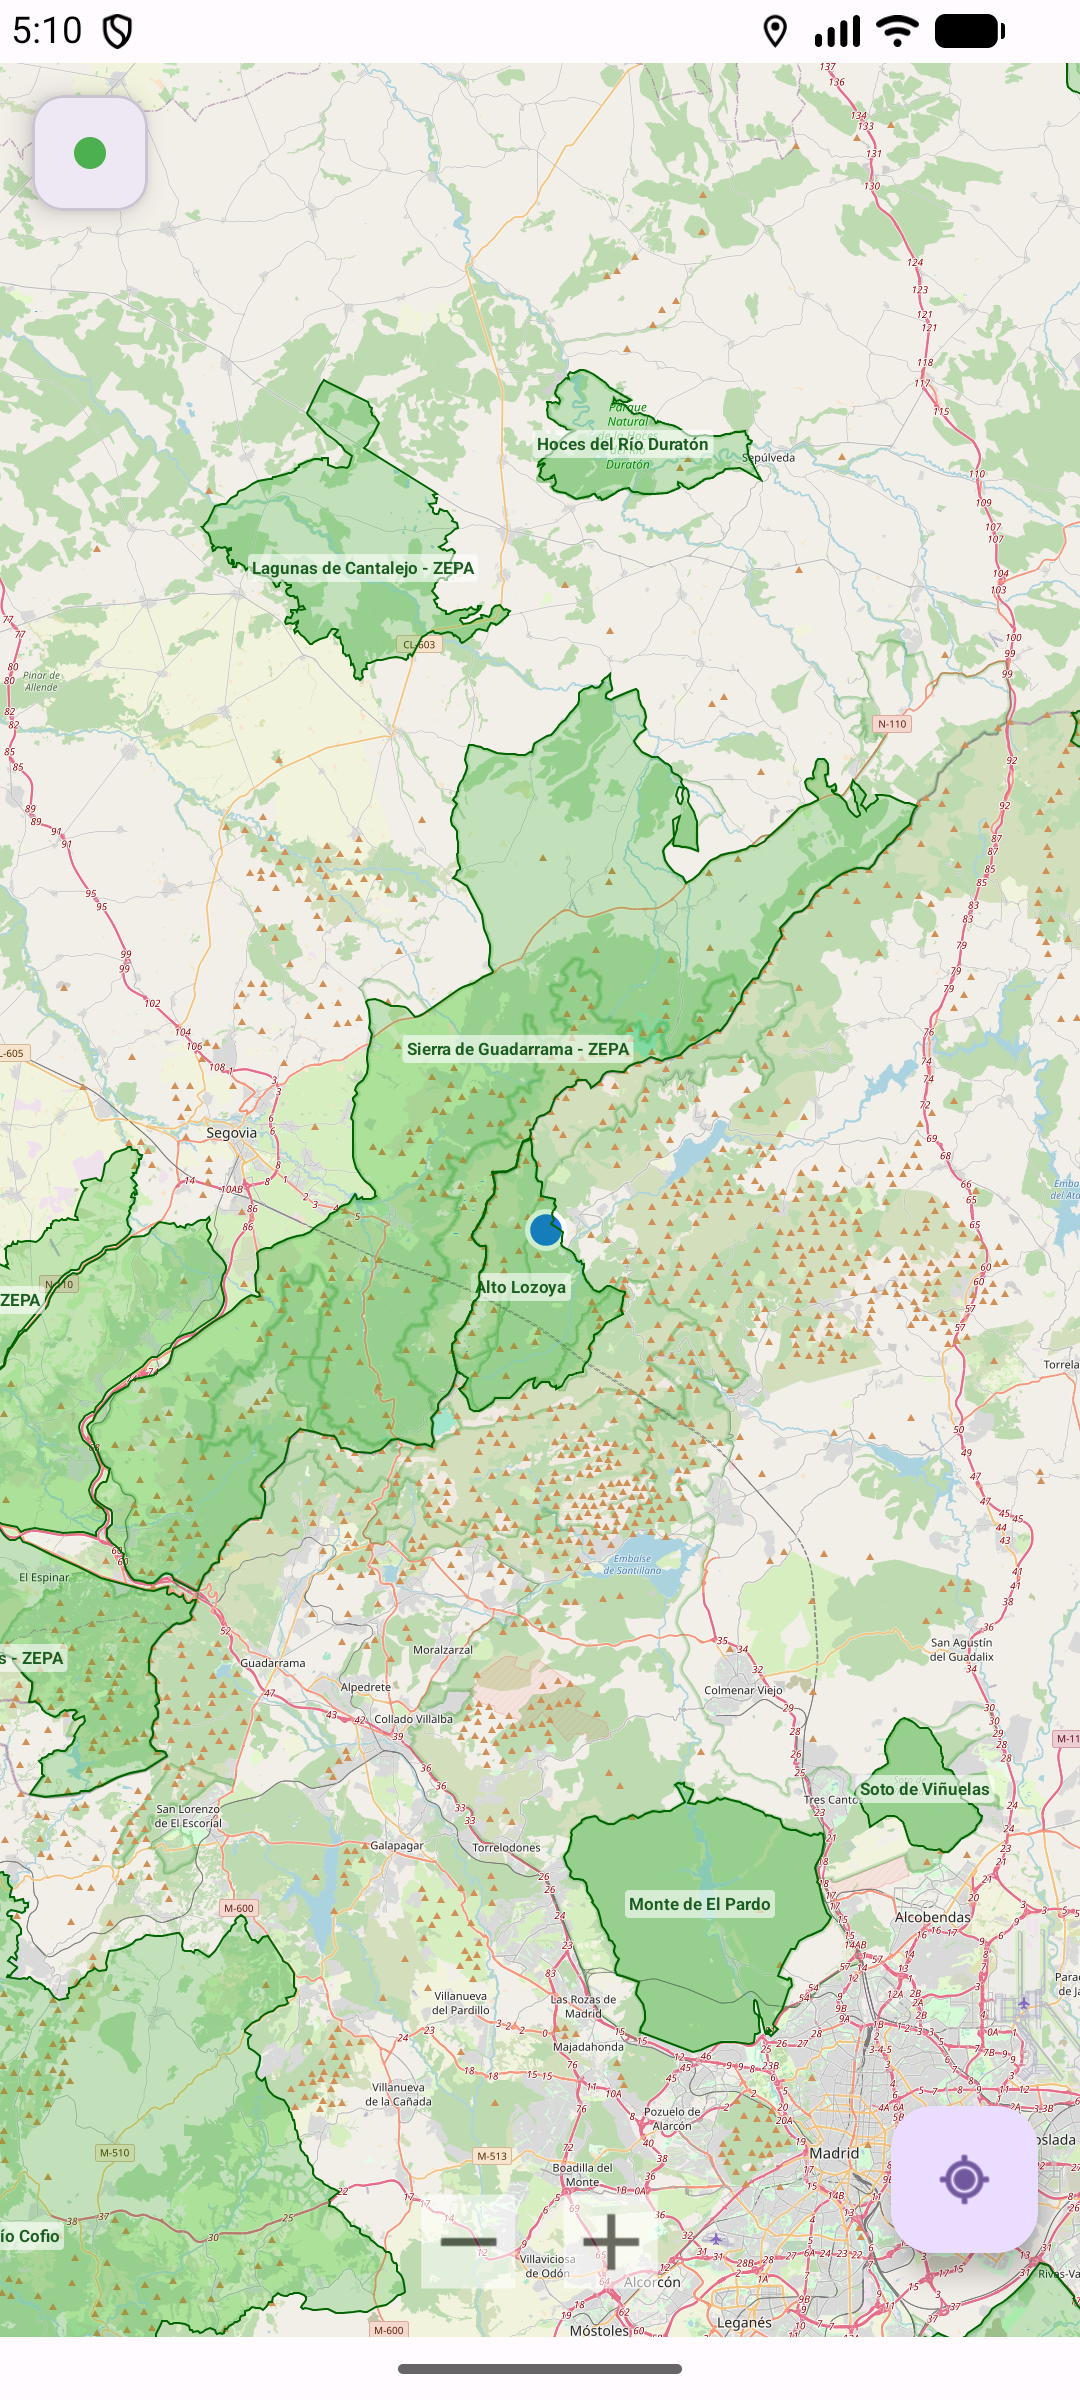
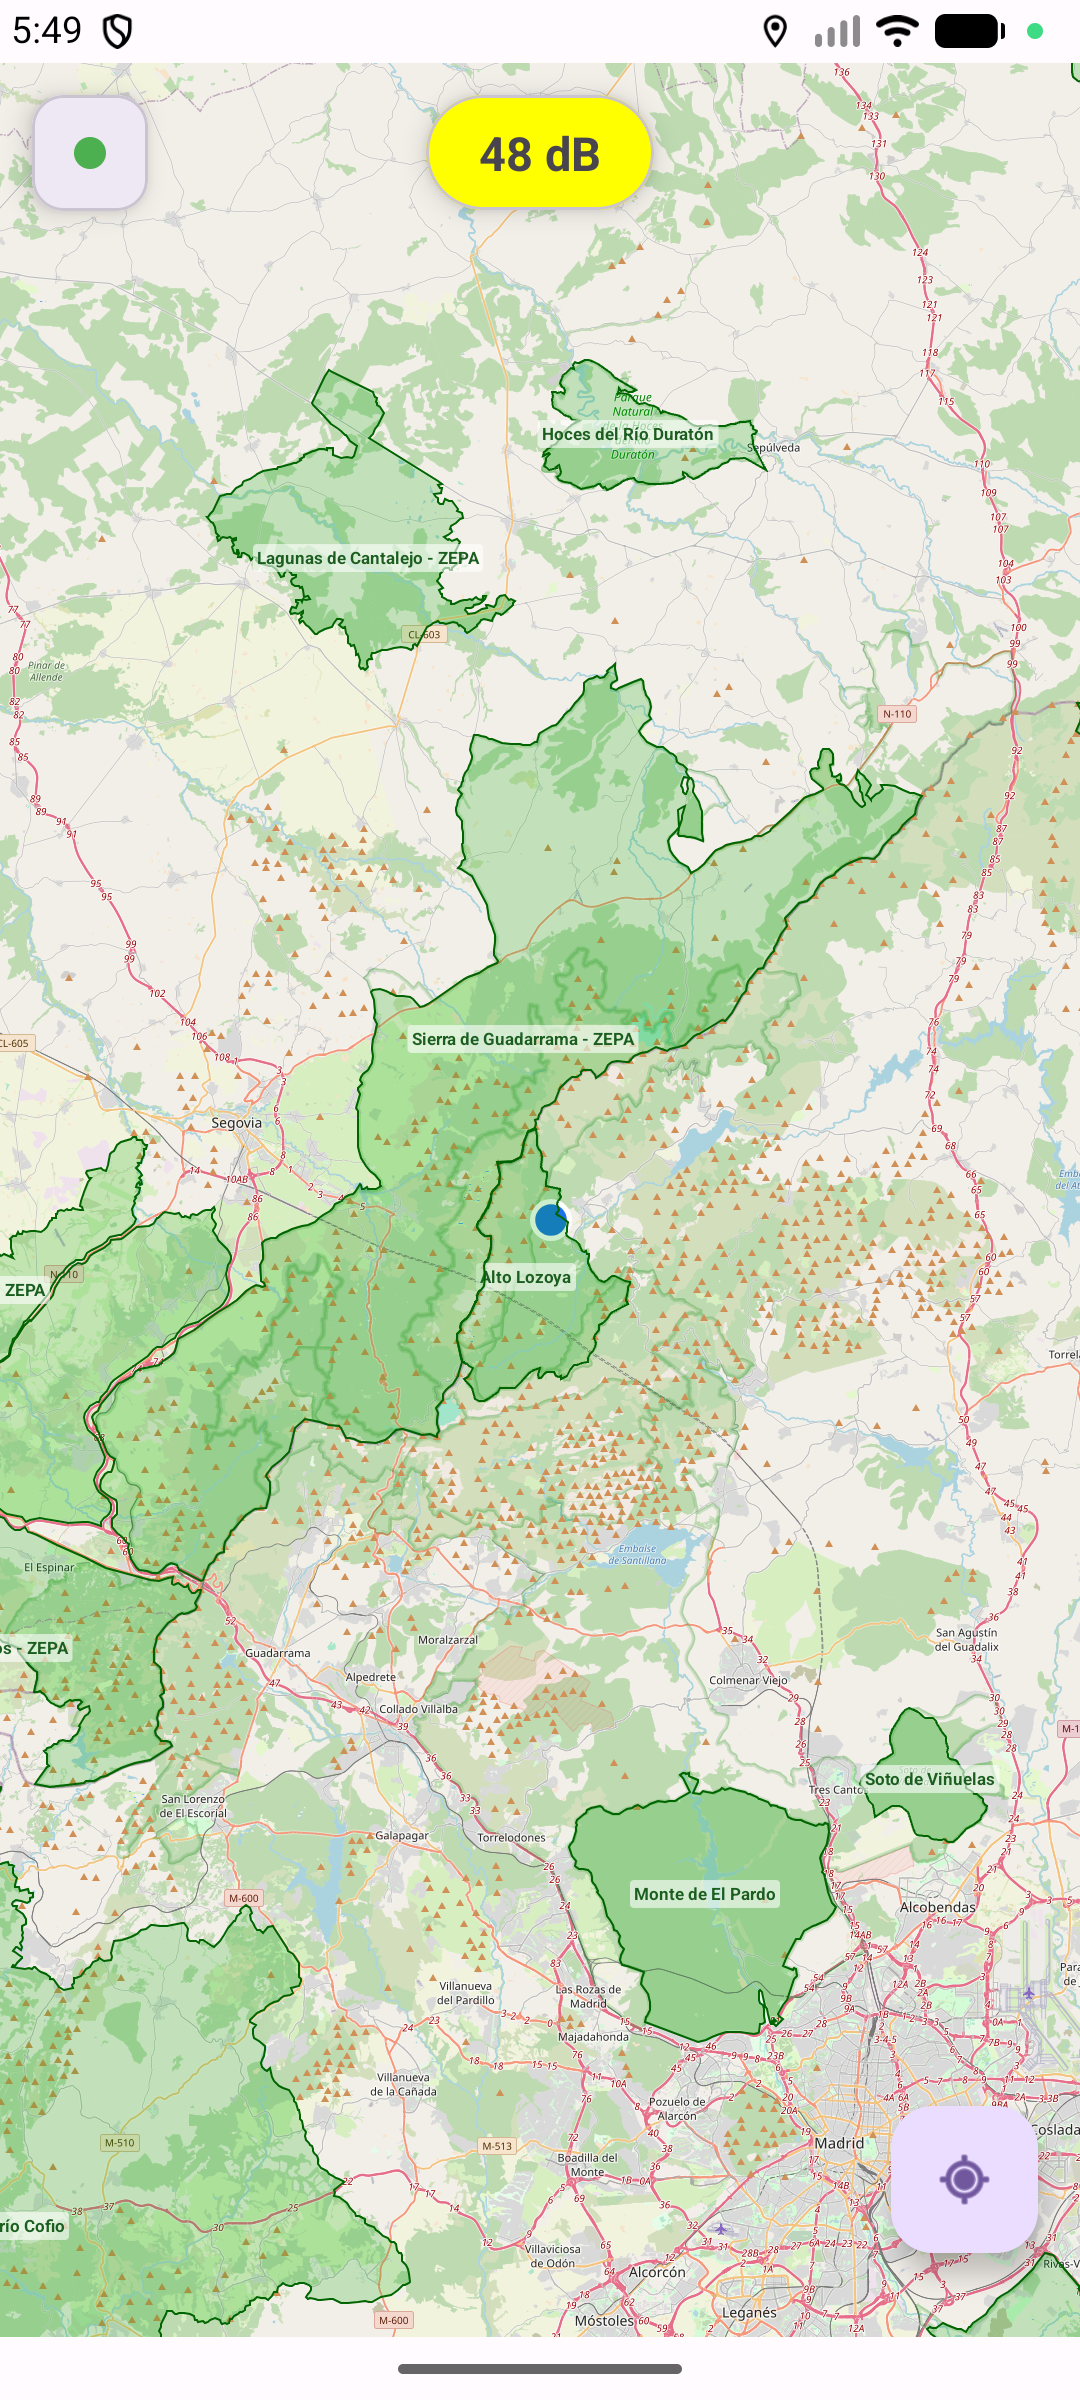
docs: update screenshots

diff --git a/README.md b/README.md
@@ -24,8 +24,6 @@
 - Monitorización del nivel de ruido en tiempo real (dB)
 - Alertas visuales (verde / amarillo / rojo) según los umbrales de cada ZEPA
 - Notificación cuando se supera el umbral de advertencia
-- Indicador de estado de conexión con el servidor
-- Punto de ubicación del usuario en el mapa
 
 
 # Installation
@@ -43,5 +41,9 @@
   <tr>
     <td><img src="assets/screenshot_1.png" width="200" /></td>
     <td><img src="assets/screenshot_2.png" width="200" /></td>
+  </tr>
+  <tr>
+    <td><img src="assets/screenshot_3.png" width="200" /></td>
+    <td></td>
   </tr>
 </table>